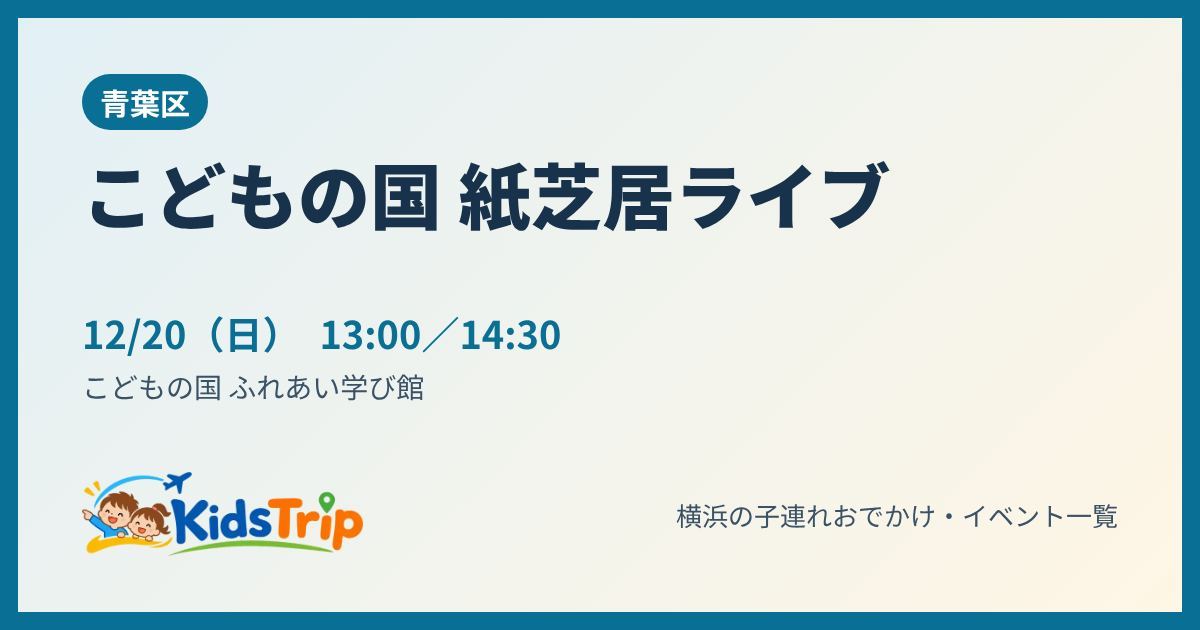
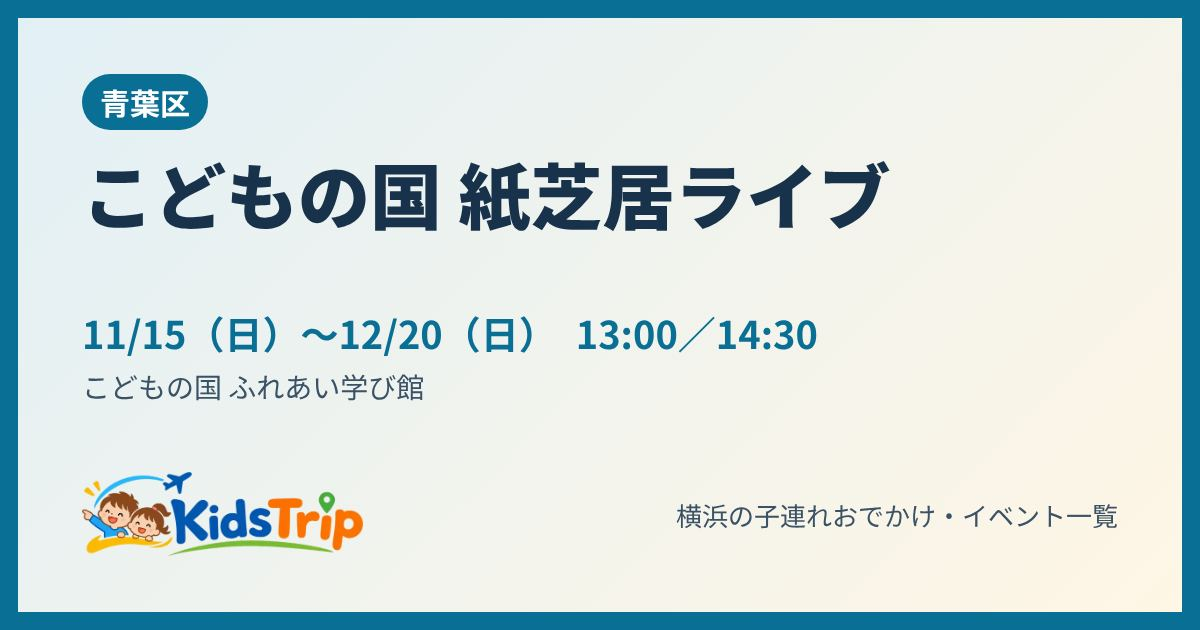
中止が分かった日を赤で表示（stop:{日付:理由}）。こどもの国の紙飛行機・紙芝居ライブの11/15を「雨で中止」に
Claude-Session: https://claude.ai/code/session_014AtJ2dyeZPNkHvtRLP9L41

Changed region(s): [[0.2467, 0.4825, 0.6783, 0.573], [0.0925, 0.5127, 0.1542, 0.573]]

diff --git a/event/h1le89/index.html b/event/h1le89/index.html
@@ -4,22 +4,22 @@
 <meta charset="utf-8">
 <meta name="viewport" content="width=device-width, initial-scale=1">
 <title>こどもの国 紙飛行機を飛ばそう（青葉区）｜横浜の子連れイベント｜KidsTrip</title>
-<meta name="description" content="12月20日(日)　こどもの国 ふれあい学び館。紙飛行機クラブの人に教わりながら、ゴムで飛ばす紙飛行機を作って飛ばす。">
+<meta name="description" content="11月15日(日)（雨で中止）・12月20日(日)　こどもの国 ふれあい学び館。紙飛行機クラブの人に教わりながら、ゴムで飛ばす紙飛行機を作って飛ばす。">
 <link rel="canonical" href="https://kidstrip.jp/event/h1le89/">
 <meta property="og:type" content="article">
 <meta property="og:site_name" content="KidsTrip">
 <meta property="og:title" content="こどもの国 紙飛行機を飛ばそう（青葉区）｜横浜の子連れイベント｜KidsTrip">
-<meta property="og:description" content="12月20日(日)　こどもの国 ふれあい学び館。紙飛行機クラブの人に教わりながら、ゴムで飛ばす紙飛行機を作って飛ばす。">
+<meta property="og:description" content="11月15日(日)（雨で中止）・12月20日(日)　こどもの国 ふれあい学び館。紙飛行機クラブの人に教わりながら、ゴムで飛ばす紙飛行機を作って飛ばす。">
 <meta property="og:url" content="https://kidstrip.jp/event/h1le89/">
 <meta property="og:image" content="https://kidstrip.jp/og/h1le89.jpg">
 <meta property="og:image:width" content="1200">
 <meta property="og:image:height" content="630">
-<meta property="og:image:alt" content="こどもの国 紙飛行機を飛ばそう（12/20（日）・青葉区）">
+<meta property="og:image:alt" content="こどもの国 紙飛行機を飛ばそう（11/15（日）〜12/20（日）・青葉区）">
 <meta name="twitter:card" content="summary_large_image">
 <link rel="icon" href="../../img/favicon.png">
 <link rel="apple-touch-icon" href="../../img/apple-touch-icon.png">
 <script type="application/ld+json">{"@context": "https://schema.org", "@type": "BreadcrumbList", "itemListElement": [{"@type": "ListItem", "position": 1, "name": "トップ", "item": "https://kidstrip.jp/"}, {"@type": "ListItem", "position": 2, "name": "イベント", "item": "https://kidstrip.jp/"}, {"@type": "ListItem", "position": 3, "name": "こどもの国 紙飛行機を飛ばそう"}]}</script>
-<script type="application/ld+json">{"@context": "https://schema.org", "@type": "Event", "name": "こどもの国 紙飛行機を飛ばそう", "startDate": "2026-12-20T10:00:00+09:00", "endDate": "2026-12-20", "eventStatus": "https://schema.org/EventScheduled", "eventAttendanceMode": "https://schema.org/OfflineEventAttendanceMode", "location": {"@type": "Place", "name": "こどもの国 ふれあい学び館", "address": {"@type": "PostalAddress", "addressLocality": "横浜市青葉区", "addressRegion": "神奈川県", "addressCountry": "JP"}}, "description": "紙飛行機クラブの人に教わりながら、ゴムで飛ばす紙飛行機を作って飛ばす。", "image": ["https://kidstrip.jp/og/h1le89.jpg"], "url": "https://kidstrip.jp/event/h1le89/", "isAccessibleForFree": false, "inLanguage": "ja"}</script>
+<script type="application/ld+json">{"@context": "https://schema.org", "@type": "Event", "name": "こどもの国 紙飛行機を飛ばそう", "startDate": "2026-11-15", "endDate": "2026-12-20", "eventStatus": "https://schema.org/EventScheduled", "eventAttendanceMode": "https://schema.org/OfflineEventAttendanceMode", "location": {"@type": "Place", "name": "こどもの国 ふれあい学び館", "address": {"@type": "PostalAddress", "addressLocality": "横浜市青葉区", "addressRegion": "神奈川県", "addressCountry": "JP"}}, "description": "紙飛行機クラブの人に教わりながら、ゴムで飛ばす紙飛行機を作って飛ばす。", "image": ["https://kidstrip.jp/og/h1le89.jpg"], "url": "https://kidstrip.jp/event/h1le89/", "isAccessibleForFree": false, "inLanguage": "ja"}</script>
 <style>
 :root{--paper:#f8fafc;--card:#fff;--ink:#18222e;--muted:#5b6875;--line:#dde3e9;--accent:#0a6f95;--accent-soft:#e2f0f6;--ok:#2e7d4f;--bad:#b3372b}
 *{box-sizing:border-box}body{margin:0;background:var(--paper);color:var(--ink);font-family:"Zen Kaku Gothic New","Hiragino Kaku Gothic ProN","Yu Gothic","Meiryo",sans-serif;line-height:1.7}
@@ -48,7 +48,7 @@ footer{margin:28px 0 8px;font-size:12px;color:var(--muted)}
 <h1>こどもの国 紙飛行機を飛ばそう</h1>
 <ul class="chips"><li>入園料のみ</li><li>対象年齢は公式ページに記載なし</li><li>屋外</li><li>雨天中止</li></ul>
 <table class="info">
-<tr><th>日にち</th><td>12月20日(日)</td></tr>
+<tr><th>日にち</th><td>11月15日(日)（雨で中止）・12月20日(日)</td></tr>
 <tr><th>時間</th><td>10:00〜14:00（受付は13:45まで）</td></tr>
 <tr><th>場所</th><td>青葉区・こどもの国 ふれあい学び館</td></tr>
 <tr><th>料金</th><td>入園料のみ（参加費は公式ページに記載なし）</td></tr>
@@ -57,12 +57,12 @@ footer{margin:28px 0 8px;font-size:12px;color:var(--muted)}
 <tr><th>雨の日</th><td>雨天中止（雨天中止）</td></tr>
 </table>
 <p class="sum">紙飛行機クラブの人に教わりながら、ゴムで飛ばす紙飛行機を作って飛ばす。</p>
-<p class="tip">💡 受付は13:45まで。11/15は雨天のため中止になった</p>
+<p class="tip">💡 受付は13:45まで</p>
 <p class="small">情報の時点：2026年11月15日　出典：こどもの国 公式</p>
 <div class="btns"><a class="btn main" data-act="official" href="https://www.kodomonokuni.org/event_topics/detail.html?id=52" target="_blank" rel="noopener">公式ページで確認</a>
 <a class="btn" href="/?e=h1le89">一覧で見る（行き方・近くのごはん）</a>
 <button type="button" class="btn" data-share="1">🔗 リンクを送る・コピー</button>
-<a class="btn line" href="https://line.me/R/share?text=%E3%80%90%E3%81%93%E3%81%A9%E3%82%82%E3%81%AE%E5%9B%BD%20%E7%B4%99%E9%A3%9B%E8%A1%8C%E6%A9%9F%E3%82%92%E9%A3%9B%E3%81%B0%E3%81%9D%E3%81%86%E3%80%91%0A12%E6%9C%8820%E6%97%A5%28%E6%97%A5%29%E3%80%8010%3A00%E3%80%9C14%3A00%EF%BC%88%E5%8F%97%E4%BB%98%E3%81%AF13%3A45%E3%81%BE%E3%81%A7%EF%BC%89%0A%E5%A0%B4%E6%89%80%EF%BC%9A%E9%9D%92%E8%91%89%E5%8C%BA%E3%83%BB%E3%81%93%E3%81%A9%E3%82%82%E3%81%AE%E5%9B%BD%20%E3%81%B5%E3%82%8C%E3%81%82%E3%81%84%E5%AD%A6%E3%81%B3%E9%A4%A8%0Ahttps%3A//kidstrip.jp/event/h1le89/" target="_blank" rel="noopener">LINEで送る</a></div>
+<a class="btn line" href="https://line.me/R/share?text=%E3%80%90%E3%81%93%E3%81%A9%E3%82%82%E3%81%AE%E5%9B%BD%20%E7%B4%99%E9%A3%9B%E8%A1%8C%E6%A9%9F%E3%82%92%E9%A3%9B%E3%81%B0%E3%81%9D%E3%81%86%E3%80%91%0A11%E6%9C%8815%E6%97%A5%28%E6%97%A5%29%EF%BC%88%E9%9B%A8%E3%81%A7%E4%B8%AD%E6%AD%A2%EF%BC%89%E3%83%BB12%E6%9C%8820%E6%97%A5%28%E6%97%A5%29%E3%80%8010%3A00%E3%80%9C14%3A00%EF%BC%88%E5%8F%97%E4%BB%98%E3%81%AF13%3A45%E3%81%BE%E3%81%A7%EF%BC%89%0A%E5%A0%B4%E6%89%80%EF%BC%9A%E9%9D%92%E8%91%89%E5%8C%BA%E3%83%BB%E3%81%93%E3%81%A9%E3%82%82%E3%81%AE%E5%9B%BD%20%E3%81%B5%E3%82%8C%E3%81%82%E3%81%84%E5%AD%A6%E3%81%B3%E9%A4%A8%0Ahttps%3A//kidstrip.jp/event/h1le89/" target="_blank" rel="noopener">LINEで送る</a></div>
 </article>
 <h2>近くのおむつ替え・授乳室・お湯（こどもの国）</h2><table class="bm"><thead><tr><th>場所</th><th>おむつ替え</th><th>授乳室</th><th>お湯</th></tr></thead><tbody><tr><th scope="row"><a href="/spot/h4ssx4/">こどもの国</a></th><td class="y">○</td><td class="y">○</td><td class="y">○</td></tr></tbody></table><p class="legend">○ あり　× なし　？ 調べた範囲で確認できず</p>
 <h2>近くのほかのイベント</h2><ul class="links"><li><a href="/event/1n3gczd/">こどもの国 あそび広場</a>（11月21日(土)）</li><li><a href="/event/1g2neg3/">こどもの国牧場 乳しぼり体験</a>（会期 毎週土日祝）</li><li><a href="/event/8myawv/">こどもの国牧場 バター作り教室</a>（会期 毎週日曜）</li><li><a href="/event/awe5vd/">こどもの国 冬のブラスフェス</a>（11月21日(土)）</li><li><a href="/event/12b01jt/">こどもの国 もみじのかざぐるま</a>（11月21日(土)・11月22日(日)・11月23日(月)）</li><li><a href="/event/1b02jh6/">こどもの国 自然スタンプビンゴ＜紅葉バージョン＞</a>（11月21日(土)・11月22日(日)・11月23日(月)）</li><li><a href="/event/oo305l/">こどもの国 工作教室「ヒツジをつくろう」</a>（11月22日(日)・11月23日(月)）</li><li><a href="/event/1qw0osb/">こどもの国 エコスポ！フェス2026</a>（11月15日(日)）</li></ul>

diff --git a/event/8ruore/index.html b/event/8ruore/index.html
@@ -4,22 +4,22 @@
 <meta charset="utf-8">
 <meta name="viewport" content="width=device-width, initial-scale=1">
 <title>こどもの国 紙芝居ライブ（青葉区）｜横浜の子連れイベント｜KidsTrip</title>
-<meta name="description" content="12月20日(日)　こどもの国 ふれあい学び館。紙芝居の会のメンバーによる紙芝居の実演。">
+<meta name="description" content="11月15日(日)（雨で中止）・12月20日(日)　こどもの国 ふれあい学び館。紙芝居の会のメンバーによる紙芝居の実演。">
 <link rel="canonical" href="https://kidstrip.jp/event/8ruore/">
 <meta property="og:type" content="article">
 <meta property="og:site_name" content="KidsTrip">
 <meta property="og:title" content="こどもの国 紙芝居ライブ（青葉区）｜横浜の子連れイベント｜KidsTrip">
-<meta property="og:description" content="12月20日(日)　こどもの国 ふれあい学び館。紙芝居の会のメンバーによる紙芝居の実演。">
+<meta property="og:description" content="11月15日(日)（雨で中止）・12月20日(日)　こどもの国 ふれあい学び館。紙芝居の会のメンバーによる紙芝居の実演。">
 <meta property="og:url" content="https://kidstrip.jp/event/8ruore/">
 <meta property="og:image" content="https://kidstrip.jp/og/8ruore.jpg">
 <meta property="og:image:width" content="1200">
 <meta property="og:image:height" content="630">
-<meta property="og:image:alt" content="こどもの国 紙芝居ライブ（12/20（日）・青葉区）">
+<meta property="og:image:alt" content="こどもの国 紙芝居ライブ（11/15（日）〜12/20（日）・青葉区）">
 <meta name="twitter:card" content="summary_large_image">
 <link rel="icon" href="../../img/favicon.png">
 <link rel="apple-touch-icon" href="../../img/apple-touch-icon.png">
 <script type="application/ld+json">{"@context": "https://schema.org", "@type": "BreadcrumbList", "itemListElement": [{"@type": "ListItem", "position": 1, "name": "トップ", "item": "https://kidstrip.jp/"}, {"@type": "ListItem", "position": 2, "name": "イベント", "item": "https://kidstrip.jp/"}, {"@type": "ListItem", "position": 3, "name": "こどもの国 紙芝居ライブ"}]}</script>
-<script type="application/ld+json">{"@context": "https://schema.org", "@type": "Event", "name": "こどもの国 紙芝居ライブ", "startDate": "2026-12-20T13:00:00+09:00", "endDate": "2026-12-20", "eventStatus": "https://schema.org/EventScheduled", "eventAttendanceMode": "https://schema.org/OfflineEventAttendanceMode", "location": {"@type": "Place", "name": "こどもの国 ふれあい学び館", "address": {"@type": "PostalAddress", "addressLocality": "横浜市青葉区", "addressRegion": "神奈川県", "addressCountry": "JP"}}, "description": "紙芝居の会のメンバーによる紙芝居の実演。", "image": ["https://kidstrip.jp/og/8ruore.jpg"], "url": "https://kidstrip.jp/event/8ruore/", "isAccessibleForFree": false, "inLanguage": "ja"}</script>
+<script type="application/ld+json">{"@context": "https://schema.org", "@type": "Event", "name": "こどもの国 紙芝居ライブ", "startDate": "2026-11-15", "endDate": "2026-12-20", "eventStatus": "https://schema.org/EventScheduled", "eventAttendanceMode": "https://schema.org/OfflineEventAttendanceMode", "location": {"@type": "Place", "name": "こどもの国 ふれあい学び館", "address": {"@type": "PostalAddress", "addressLocality": "横浜市青葉区", "addressRegion": "神奈川県", "addressCountry": "JP"}}, "description": "紙芝居の会のメンバーによる紙芝居の実演。", "image": ["https://kidstrip.jp/og/8ruore.jpg"], "url": "https://kidstrip.jp/event/8ruore/", "isAccessibleForFree": false, "inLanguage": "ja"}</script>
 <style>
 :root{--paper:#f8fafc;--card:#fff;--ink:#18222e;--muted:#5b6875;--line:#dde3e9;--accent:#0a6f95;--accent-soft:#e2f0f6;--ok:#2e7d4f;--bad:#b3372b}
 *{box-sizing:border-box}body{margin:0;background:var(--paper);color:var(--ink);font-family:"Zen Kaku Gothic New","Hiragino Kaku Gothic ProN","Yu Gothic","Meiryo",sans-serif;line-height:1.7}
@@ -48,7 +48,7 @@ footer{margin:28px 0 8px;font-size:12px;color:var(--muted)}
 <h1>こどもの国 紙芝居ライブ</h1>
 <ul class="chips"><li>入園料のみ</li><li>対象年齢は公式ページに記載なし</li><li>屋外</li><li>雨天中止</li></ul>
 <table class="info">
-<tr><th>日にち</th><td>12月20日(日)</td></tr>
+<tr><th>日にち</th><td>11月15日(日)（雨で中止）・12月20日(日)</td></tr>
 <tr><th>時間</th><td>13:00／14:30</td></tr>
 <tr><th>場所</th><td>青葉区・こどもの国 ふれあい学び館</td></tr>
 <tr><th>料金</th><td>入園料のみ（参加費は公式ページに記載なし）</td></tr>
@@ -57,12 +57,12 @@ footer{margin:28px 0 8px;font-size:12px;color:var(--muted)}
 <tr><th>雨の日</th><td>雨天中止（雨天中止）</td></tr>
 </table>
 <p class="sum">紙芝居の会のメンバーによる紙芝居の実演。</p>
-<p class="tip">💡 同じ日に紙飛行機の教室もある。11/15は雨天のため中止になった。1/17にもある</p>
+<p class="tip">💡 同じ日に紙飛行機の教室もある。1/17にもある</p>
 <p class="small">情報の時点：2026年11月15日　出典：こどもの国 公式</p>
 <div class="btns"><a class="btn main" data-act="official" href="https://www.kodomonokuni.org/event_topics/detail.html?id=186" target="_blank" rel="noopener">公式ページで確認</a>
 <a class="btn" href="/?e=8ruore">一覧で見る（行き方・近くのごはん）</a>
 <button type="button" class="btn" data-share="1">🔗 リンクを送る・コピー</button>
-<a class="btn line" href="https://line.me/R/share?text=%E3%80%90%E3%81%93%E3%81%A9%E3%82%82%E3%81%AE%E5%9B%BD%20%E7%B4%99%E8%8A%9D%E5%B1%85%E3%83%A9%E3%82%A4%E3%83%96%E3%80%91%0A12%E6%9C%8820%E6%97%A5%28%E6%97%A5%29%E3%80%8013%3A00%EF%BC%8F14%3A30%0A%E5%A0%B4%E6%89%80%EF%BC%9A%E9%9D%92%E8%91%89%E5%8C%BA%E3%83%BB%E3%81%93%E3%81%A9%E3%82%82%E3%81%AE%E5%9B%BD%20%E3%81%B5%E3%82%8C%E3%81%82%E3%81%84%E5%AD%A6%E3%81%B3%E9%A4%A8%0Ahttps%3A//kidstrip.jp/event/8ruore/" target="_blank" rel="noopener">LINEで送る</a></div>
+<a class="btn line" href="https://line.me/R/share?text=%E3%80%90%E3%81%93%E3%81%A9%E3%82%82%E3%81%AE%E5%9B%BD%20%E7%B4%99%E8%8A%9D%E5%B1%85%E3%83%A9%E3%82%A4%E3%83%96%E3%80%91%0A11%E6%9C%8815%E6%97%A5%28%E6%97%A5%29%EF%BC%88%E9%9B%A8%E3%81%A7%E4%B8%AD%E6%AD%A2%EF%BC%89%E3%83%BB12%E6%9C%8820%E6%97%A5%28%E6%97%A5%29%E3%80%8013%3A00%EF%BC%8F14%3A30%0A%E5%A0%B4%E6%89%80%EF%BC%9A%E9%9D%92%E8%91%89%E5%8C%BA%E3%83%BB%E3%81%93%E3%81%A9%E3%82%82%E3%81%AE%E5%9B%BD%20%E3%81%B5%E3%82%8C%E3%81%82%E3%81%84%E5%AD%A6%E3%81%B3%E9%A4%A8%0Ahttps%3A//kidstrip.jp/event/8ruore/" target="_blank" rel="noopener">LINEで送る</a></div>
 </article>
 
 

diff --git a/index.html b/index.html
@@ -173,6 +173,9 @@ section.group { display: grid; gap: 10px; }
 .rain.ok { background: var(--ok-soft); color: var(--ok); }
 .rain.check { background: var(--warn-soft); color: var(--warn); }
 .rain.cancel { background: var(--bad-soft); color: var(--bad); font-weight: 700; }
+.stopnote { margin: 6px 0; padding: 5px 10px; border-radius: 8px; background: var(--bad-soft); color: var(--bad); font-weight: 800; border: 1.5px solid var(--bad); }
+.day.stopped { text-decoration: line-through; opacity: .75; }
+.card.allstop { opacity: .8; }
 .rain.unknown { background: var(--paper); color: var(--muted); }
 .sum { margin: 0; font-size: 14px; }
 .tip { margin: 0; font-size: 13px; color: var(--muted); }
@@ -1943,16 +1946,16 @@ EVENTS.push(
     resv:true, resvText:"要申込・抽選（12/7 9:30ごろ〜12/13 17:00にWebで。各回10組）", age:[3,99], ageText:"家族など2〜5人で1組。小学3年生以下は保護者と一緒に", kind:"limited", start:630,
     sum:"竹を切って縄を巻き、ミニサイズの門松を1対作る年末の教室。",
     tip:"すべらない軍手と持ち帰り用の袋を持って行く", url:"https://www.kodomonokuni.org/event_topics/detail.html?id=91", src:"こどもの国 公式", asof:"2026年11月12日" },
-  { t:"こどもの国 紙芝居ライブ", days:["12/20"], time:"13:00／14:30", ward:"青葉区", venue:"こどもの国 ふれあい学び館",
+  { t:"こどもの国 紙芝居ライブ", days:["11/15","12/20"], stop:{"11/15":"雨で中止"}, time:"13:00／14:30", ward:"青葉区", venue:"こどもの国 ふれあい学び館",
     price:"admission", priceText:"入園料のみ（参加費は公式ページに記載なし）", place:"屋外", rain:"cancel", rainText:"雨天中止",
     resv:null, resvText:"公式ページに記載なし", age:[2,10], ageText:"対象年齢は公式ページに記載なし", kind:"limited", start:780,
     sum:"紙芝居の会のメンバーによる紙芝居の実演。",
-    tip:"同じ日に紙飛行機の教室もある。11/15は雨天のため中止になった。1/17にもある", url:"https://www.kodomonokuni.org/event_topics/detail.html?id=186", src:"こどもの国 公式", asof:"2026年11月15日" },
-  { t:"こどもの国 紙飛行機を飛ばそう", days:["12/20"], time:"10:00〜14:00（受付は13:45まで）", ward:"青葉区", venue:"こどもの国 ふれあい学び館",
+    tip:"同じ日に紙飛行機の教室もある。1/17にもある", url:"https://www.kodomonokuni.org/event_topics/detail.html?id=186", src:"こどもの国 公式", asof:"2026年11月15日" },
+  { t:"こどもの国 紙飛行機を飛ばそう", days:["11/15","12/20"], stop:{"11/15":"雨で中止"}, time:"10:00〜14:00（受付は13:45まで）", ward:"青葉区", venue:"こどもの国 ふれあい学び館",
     price:"admission", priceText:"入園料のみ（参加費は公式ページに記載なし）", place:"屋外", rain:"cancel", rainText:"雨天中止",
     resv:false, resvText:"当日受付", age:[4,12], ageText:"対象年齢は公式ページに記載なし", kind:"limited", start:600,
     sum:"紙飛行機クラブの人に教わりながら、ゴムで飛ばす紙飛行機を作って飛ばす。",
-    tip:"受付は13:45まで。11/15は雨天のため中止になった", url:"https://www.kodomonokuni.org/event_topics/detail.html?id=52", src:"こどもの国 公式", asof:"2026年11月15日" },
+    tip:"受付は13:45まで", url:"https://www.kodomonokuni.org/event_topics/detail.html?id=52", src:"こどもの国 公式", asof:"2026年11月15日" },
   { t:"こどもの国 フィールドゲーム＜冬バージョン＞", days:[], time:"用紙の販売は開園〜14:00（ゴールは16:00まで）", period:"12/5〜2027/2/28（水曜・12/31・1/1は休園）", ward:"青葉区", venue:"こどもの国（正面入口案内所で販売）",
     price:"paid", priceText:"1枚100円（鉛筆つき・完走で景品）＋入園料", place:"屋外", rain:"check", rainText:"雨の日の扱いは公式ページに記載なし",
     resv:false, resvText:"個人は予約不要", age:[4,12], ageText:"対象年齢は公式ページに記載なし", kind:"ongoing", start:570, closed:["1/1"],
@@ -2622,7 +2625,7 @@ Object.assign(FOOD_OF, {
 });
 function dayChips(e){
   if (e.kind === "ongoing") return `<span class="period">${e.wk || /確認|要確認|以外|いつでも/.test(e.period) ? "" : "会期 "}${esc(e.period)}</span>${e.wk ? `<span class="period wk">平日：${esc(e.wk)}</span>` : ""}`;
-  return e.days.map(k => { const d = DATES[DATE_IDX[k]]; if (!d) return `<span class="day wkday">${dlabel(k)}</span>`; return `<span class="day ${d.c}">${d.s}(${d.w})</span>`; }).join("");
+  return e.days.map(k => { const st = e.stop && e.stop[k] ? " stopped" : ""; const d = DATES[DATE_IDX[k]]; if (!d) return `<span class="day wkday${st}">${dlabel(k)}</span>`; return `<span class="day ${d.c}${st}">${d.s}(${d.w})</span>`; }).join("");
 }
 
 const PAGE_URL = "https://kidstrip.jp/";
@@ -3225,9 +3228,13 @@ function card(e){
     : e.price === "admission" ? `<li class="chip">入園料のみ</li>`
     : e.price === "paid" ? `<li class="chip">有料</li>` : `<li class="chip">料金要確認</li>`;
   const resvChip = e.resv === true ? `<li class="chip resv">要予約</li>` : e.resv === false ? `<li class="chip">予約不要</li>` : `<li class="chip">予約は要確認</li>`;
-  return `<article class="card r-${e.rain}" data-eid="${esc(e.id)}" data-ev="${esc(e.t)}">
+  // 中止が分かった日（e.stop = { "11/15":"雨で中止" }）は赤で表示する
+  const stops = Object.entries(e.stop || {});
+  const stopNote = stops.map(([k, why]) => `<p class="stopnote">⛔ ${dlabel(k)}は${esc(why)}</p>`).join("");
+  const allStop = stops.length && e.days.length && e.days.every(k => e.stop[k]);
+  return `<article class="card r-${e.rain}${allStop ? " allstop" : ""}" data-eid="${esc(e.id)}" data-ev="${esc(e.t)}">
     <div class="when">${days}<span>${esc(e.time)}</span>${favBtn(e)}</div>
-    <h3>${esc(e.t)}</h3>
+    ${stopNote}<h3>${esc(e.t)}</h3>
     <p class="where">${esc(e.ward)}・${esc(e.venue)}</p>
     <ul class="chips">${priceChip}<li class="chip">${esc(e.ageText)}</li><li class="chip">${esc(e.place)}</li>${resvChip}</ul>
     <p class="rain ${e.rain}">${RAIN_ICON[e.rain]}<span><b>${RAIN_LABEL[e.rain]}</b>　${esc(e.rainText)}</span></p>

diff --git a/event/1b02jh6/index.html b/event/1b02jh6/index.html
@@ -65,7 +65,7 @@ footer{margin:28px 0 8px;font-size:12px;color:var(--muted)}
 <a class="btn line" href="https://line.me/R/share?text=%E3%80%90%E3%81%93%E3%81%A9%E3%82%82%E3%81%AE%E5%9B%BD%20%E8%87%AA%E7%84%B6%E3%82%B9%E3%82%BF%E3%83%B3%E3%83%97%E3%83%93%E3%83%B3%E3%82%B4%EF%BC%9C%E7%B4%85%E8%91%89%E3%83%90%E3%83%BC%E3%82%B8%E3%83%A7%E3%83%B3%EF%BC%9E%E3%80%91%0A11%E6%9C%8821%E6%97%A5%28%E5%9C%9F%29%E3%83%BB11%E6%9C%8822%E6%97%A5%28%E6%97%A5%29%E3%83%BB11%E6%9C%8823%E6%97%A5%28%E6%9C%88%29%E3%80%80%E9%96%8B%E5%9C%92%E3%80%9C14%3A00%E5%8F%97%E4%BB%98%EF%BC%88%E3%82%B4%E3%83%BC%E3%83%AB%E3%81%AF16%3A00%E3%81%BE%E3%81%A7%EF%BC%89%0A%E5%A0%B4%E6%89%80%EF%BC%9A%E9%9D%92%E8%91%89%E5%8C%BA%E3%83%BB%E3%81%93%E3%81%A9%E3%82%82%E3%81%AE%E5%9B%BD%20%E6%AD%A3%E9%9D%A2%E5%85%A5%E5%8F%A3%E5%BA%83%E5%A0%B4%EF%BC%88%E5%8F%97%E4%BB%98%EF%BC%89%0Ahttps%3A//kidstrip.jp/event/1b02jh6/" target="_blank" rel="noopener">LINEで送る</a></div>
 </article>
 <h2>近くのおむつ替え・授乳室・お湯（こどもの国）</h2><table class="bm"><thead><tr><th>場所</th><th>おむつ替え</th><th>授乳室</th><th>お湯</th></tr></thead><tbody><tr><th scope="row"><a href="/spot/h4ssx4/">こどもの国</a></th><td class="y">○</td><td class="y">○</td><td class="y">○</td></tr></tbody></table><p class="legend">○ あり　× なし　？ 調べた範囲で確認できず</p>
-<h2>近くのほかのイベント</h2><ul class="links"><li><a href="/event/1n3gczd/">こどもの国 あそび広場</a>（11月21日(土)）</li><li><a href="/event/1g2neg3/">こどもの国牧場 乳しぼり体験</a>（会期 毎週土日祝）</li><li><a href="/event/8myawv/">こどもの国牧場 バター作り教室</a>（会期 毎週日曜）</li><li><a href="/event/awe5vd/">こどもの国 冬のブラスフェス</a>（11月21日(土)）</li><li><a href="/event/12b01jt/">こどもの国 もみじのかざぐるま</a>（11月21日(土)・11月22日(日)・11月23日(月)）</li><li><a href="/event/oo305l/">こどもの国 工作教室「ヒツジをつくろう」</a>（11月22日(日)・11月23日(月)）</li><li><a href="/event/1qw0osb/">こどもの国 エコスポ！フェス2026</a>（11月15日(日)）</li><li><a href="/event/h1le89/">こどもの国 紙飛行機を飛ばそう</a>（12月20日(日)）</li></ul>
+<h2>近くのほかのイベント</h2><ul class="links"><li><a href="/event/1n3gczd/">こどもの国 あそび広場</a>（11月21日(土)）</li><li><a href="/event/1g2neg3/">こどもの国牧場 乳しぼり体験</a>（会期 毎週土日祝）</li><li><a href="/event/8myawv/">こどもの国牧場 バター作り教室</a>（会期 毎週日曜）</li><li><a href="/event/awe5vd/">こどもの国 冬のブラスフェス</a>（11月21日(土)）</li><li><a href="/event/12b01jt/">こどもの国 もみじのかざぐるま</a>（11月21日(土)・11月22日(日)・11月23日(月)）</li><li><a href="/event/oo305l/">こどもの国 工作教室「ヒツジをつくろう」</a>（11月22日(日)・11月23日(月)）</li><li><a href="/event/1qw0osb/">こどもの国 エコスポ！フェス2026</a>（11月15日(日)）</li><li><a href="/event/h1le89/">こどもの国 紙飛行機を飛ばそう</a>（11月15日(日)（雨で中止）・12月20日(日)）</li></ul>
 
 <footer><p>KidsTrip（キッズトリップ）横浜の子連れおでかけ・イベント一覧。施設・主催者の公式情報などをもとに要約しています。内容は変わることがあるので、出かける前に必ず公式ページで確認してください。</p>
 <p>サイトをよくするため、押されたボタン・リンクの回数を、名前などの個人情報なしで記録しています。</p></footer>

diff --git a/event/oo305l/index.html b/event/oo305l/index.html
@@ -65,7 +65,7 @@ footer{margin:28px 0 8px;font-size:12px;color:var(--muted)}
 <a class="btn line" href="https://line.me/R/share?text=%E3%80%90%E3%81%93%E3%81%A9%E3%82%82%E3%81%AE%E5%9B%BD%20%E5%B7%A5%E4%BD%9C%E6%95%99%E5%AE%A4%E3%80%8C%E3%83%92%E3%83%84%E3%82%B8%E3%82%92%E3%81%A4%E3%81%8F%E3%82%8D%E3%81%86%E3%80%8D%E3%80%91%0A11%E6%9C%8822%E6%97%A5%28%E6%97%A5%29%E3%83%BB11%E6%9C%8823%E6%97%A5%28%E6%9C%88%29%E3%80%8010%3A30%EF%BC%8F13%3A00%EF%BC%8F14%3A30%EF%BC%88%E5%90%84%E5%9B%9E6%E7%B5%84%EF%BC%89%0A%E5%A0%B4%E6%89%80%EF%BC%9A%E9%9D%92%E8%91%89%E5%8C%BA%E3%83%BB%E3%81%93%E3%81%A9%E3%82%82%E3%81%AE%E5%9B%BD%20%E5%85%90%E7%AB%A5%E3%82%BB%E3%83%B3%E3%82%BF%E3%83%BC%0Ahttps%3A//kidstrip.jp/event/oo305l/" target="_blank" rel="noopener">LINEで送る</a></div>
 </article>
 <h2>近くのおむつ替え・授乳室・お湯（こどもの国）</h2><table class="bm"><thead><tr><th>場所</th><th>おむつ替え</th><th>授乳室</th><th>お湯</th></tr></thead><tbody><tr><th scope="row"><a href="/spot/h4ssx4/">こどもの国</a></th><td class="y">○</td><td class="y">○</td><td class="y">○</td></tr></tbody></table><p class="legend">○ あり　× なし　？ 調べた範囲で確認できず</p>
-<h2>近くのほかのイベント</h2><ul class="links"><li><a href="/event/1n3gczd/">こどもの国 あそび広場</a>（11月21日(土)）</li><li><a href="/event/1g2neg3/">こどもの国牧場 乳しぼり体験</a>（会期 毎週土日祝）</li><li><a href="/event/8myawv/">こどもの国牧場 バター作り教室</a>（会期 毎週日曜）</li><li><a href="/event/awe5vd/">こどもの国 冬のブラスフェス</a>（11月21日(土)）</li><li><a href="/event/12b01jt/">こどもの国 もみじのかざぐるま</a>（11月21日(土)・11月22日(日)・11月23日(月)）</li><li><a href="/event/1b02jh6/">こどもの国 自然スタンプビンゴ＜紅葉バージョン＞</a>（11月21日(土)・11月22日(日)・11月23日(月)）</li><li><a href="/event/1qw0osb/">こどもの国 エコスポ！フェス2026</a>（11月15日(日)）</li><li><a href="/event/h1le89/">こどもの国 紙飛行機を飛ばそう</a>（12月20日(日)）</li></ul>
+<h2>近くのほかのイベント</h2><ul class="links"><li><a href="/event/1n3gczd/">こどもの国 あそび広場</a>（11月21日(土)）</li><li><a href="/event/1g2neg3/">こどもの国牧場 乳しぼり体験</a>（会期 毎週土日祝）</li><li><a href="/event/8myawv/">こどもの国牧場 バター作り教室</a>（会期 毎週日曜）</li><li><a href="/event/awe5vd/">こどもの国 冬のブラスフェス</a>（11月21日(土)）</li><li><a href="/event/12b01jt/">こどもの国 もみじのかざぐるま</a>（11月21日(土)・11月22日(日)・11月23日(月)）</li><li><a href="/event/1b02jh6/">こどもの国 自然スタンプビンゴ＜紅葉バージョン＞</a>（11月21日(土)・11月22日(日)・11月23日(月)）</li><li><a href="/event/1qw0osb/">こどもの国 エコスポ！フェス2026</a>（11月15日(日)）</li><li><a href="/event/h1le89/">こどもの国 紙飛行機を飛ばそう</a>（11月15日(日)（雨で中止）・12月20日(日)）</li></ul>
 
 <footer><p>KidsTrip（キッズトリップ）横浜の子連れおでかけ・イベント一覧。施設・主催者の公式情報などをもとに要約しています。内容は変わることがあるので、出かける前に必ず公式ページで確認してください。</p>
 <p>サイトをよくするため、押されたボタン・リンクの回数を、名前などの個人情報なしで記録しています。</p></footer>

diff --git a/event/1n3gczd/index.html b/event/1n3gczd/index.html
@@ -65,7 +65,7 @@ footer{margin:28px 0 8px;font-size:12px;color:var(--muted)}
 <a class="btn line" href="https://line.me/R/share?text=%E3%80%90%E3%81%93%E3%81%A9%E3%82%82%E3%81%AE%E5%9B%BD%20%E3%81%82%E3%81%9D%E3%81%B3%E5%BA%83%E5%A0%B4%E3%80%91%0A11%E6%9C%8821%E6%97%A5%28%E5%9C%9F%29%E3%80%8011%3A00%E3%80%9C15%3A00%EF%BC%8814%3A45%E5%8F%97%E4%BB%98%E7%B5%82%E4%BA%86%EF%BC%89%0A%E5%A0%B4%E6%89%80%EF%BC%9A%E9%9D%92%E8%91%89%E5%8C%BA%E3%83%BB%E3%81%93%E3%81%A9%E3%82%82%E3%81%AE%E5%9B%BD%20%E3%81%B5%E3%82%8C%E3%81%82%E3%81%84%E5%AD%A6%E3%81%B3%E9%A4%A8%0Ahttps%3A//kidstrip.jp/event/1n3gczd/" target="_blank" rel="noopener">LINEで送る</a></div>
 </article>
 <h2>近くのおむつ替え・授乳室・お湯（こどもの国）</h2><table class="bm"><thead><tr><th>場所</th><th>おむつ替え</th><th>授乳室</th><th>お湯</th></tr></thead><tbody><tr><th scope="row"><a href="/spot/h4ssx4/">こどもの国</a></th><td class="y">○</td><td class="y">○</td><td class="y">○</td></tr></tbody></table><p class="legend">○ あり　× なし　？ 調べた範囲で確認できず</p>
-<h2>近くのほかのイベント</h2><ul class="links"><li><a href="/event/1g2neg3/">こどもの国牧場 乳しぼり体験</a>（会期 毎週土日祝）</li><li><a href="/event/8myawv/">こどもの国牧場 バター作り教室</a>（会期 毎週日曜）</li><li><a href="/event/awe5vd/">こどもの国 冬のブラスフェス</a>（11月21日(土)）</li><li><a href="/event/12b01jt/">こどもの国 もみじのかざぐるま</a>（11月21日(土)・11月22日(日)・11月23日(月)）</li><li><a href="/event/1b02jh6/">こどもの国 自然スタンプビンゴ＜紅葉バージョン＞</a>（11月21日(土)・11月22日(日)・11月23日(月)）</li><li><a href="/event/oo305l/">こどもの国 工作教室「ヒツジをつくろう」</a>（11月22日(日)・11月23日(月)）</li><li><a href="/event/1qw0osb/">こどもの国 エコスポ！フェス2026</a>（11月15日(日)）</li><li><a href="/event/h1le89/">こどもの国 紙飛行機を飛ばそう</a>（12月20日(日)）</li></ul>
+<h2>近くのほかのイベント</h2><ul class="links"><li><a href="/event/1g2neg3/">こどもの国牧場 乳しぼり体験</a>（会期 毎週土日祝）</li><li><a href="/event/8myawv/">こどもの国牧場 バター作り教室</a>（会期 毎週日曜）</li><li><a href="/event/awe5vd/">こどもの国 冬のブラスフェス</a>（11月21日(土)）</li><li><a href="/event/12b01jt/">こどもの国 もみじのかざぐるま</a>（11月21日(土)・11月22日(日)・11月23日(月)）</li><li><a href="/event/1b02jh6/">こどもの国 自然スタンプビンゴ＜紅葉バージョン＞</a>（11月21日(土)・11月22日(日)・11月23日(月)）</li><li><a href="/event/oo305l/">こどもの国 工作教室「ヒツジをつくろう」</a>（11月22日(日)・11月23日(月)）</li><li><a href="/event/1qw0osb/">こどもの国 エコスポ！フェス2026</a>（11月15日(日)）</li><li><a href="/event/h1le89/">こどもの国 紙飛行機を飛ばそう</a>（11月15日(日)（雨で中止）・12月20日(日)）</li></ul>
 
 <footer><p>KidsTrip（キッズトリップ）横浜の子連れおでかけ・イベント一覧。施設・主催者の公式情報などをもとに要約しています。内容は変わることがあるので、出かける前に必ず公式ページで確認してください。</p>
 <p>サイトをよくするため、押されたボタン・リンクの回数を、名前などの個人情報なしで記録しています。</p></footer>

diff --git a/event/awe5vd/index.html b/event/awe5vd/index.html
@@ -65,7 +65,7 @@ footer{margin:28px 0 8px;font-size:12px;color:var(--muted)}
 <a class="btn line" href="https://line.me/R/share?text=%E3%80%90%E3%81%93%E3%81%A9%E3%82%82%E3%81%AE%E5%9B%BD%20%E5%86%AC%E3%81%AE%E3%83%96%E3%83%A9%E3%82%B9%E3%83%95%E3%82%A7%E3%82%B9%E3%80%91%0A11%E6%9C%8821%E6%97%A5%28%E5%9C%9F%29%E3%80%8010%3A00%E3%80%9C15%3A30%0A%E5%A0%B4%E6%89%80%EF%BC%9A%E9%9D%92%E8%91%89%E5%8C%BA%E3%83%BB%E3%81%93%E3%81%A9%E3%82%82%E3%81%AE%E5%9B%BD%20%E5%B9%B3%E6%88%90%E8%A8%98%E5%BF%B5%E9%A4%A8%EF%BC%88%E5%B1%8B%E6%A0%B9%E4%BB%98%E3%81%8D%EF%BC%89%0Ahttps%3A//kidstrip.jp/event/awe5vd/" target="_blank" rel="noopener">LINEで送る</a></div>
 </article>
 <h2>近くのおむつ替え・授乳室・お湯（こどもの国）</h2><table class="bm"><thead><tr><th>場所</th><th>おむつ替え</th><th>授乳室</th><th>お湯</th></tr></thead><tbody><tr><th scope="row"><a href="/spot/h4ssx4/">こどもの国</a></th><td class="y">○</td><td class="y">○</td><td class="y">○</td></tr></tbody></table><p class="legend">○ あり　× なし　？ 調べた範囲で確認できず</p>
-<h2>近くのほかのイベント</h2><ul class="links"><li><a href="/event/1n3gczd/">こどもの国 あそび広場</a>（11月21日(土)）</li><li><a href="/event/1g2neg3/">こどもの国牧場 乳しぼり体験</a>（会期 毎週土日祝）</li><li><a href="/event/8myawv/">こどもの国牧場 バター作り教室</a>（会期 毎週日曜）</li><li><a href="/event/12b01jt/">こどもの国 もみじのかざぐるま</a>（11月21日(土)・11月22日(日)・11月23日(月)）</li><li><a href="/event/1b02jh6/">こどもの国 自然スタンプビンゴ＜紅葉バージョン＞</a>（11月21日(土)・11月22日(日)・11月23日(月)）</li><li><a href="/event/oo305l/">こどもの国 工作教室「ヒツジをつくろう」</a>（11月22日(日)・11月23日(月)）</li><li><a href="/event/1qw0osb/">こどもの国 エコスポ！フェス2026</a>（11月15日(日)）</li><li><a href="/event/h1le89/">こどもの国 紙飛行機を飛ばそう</a>（12月20日(日)）</li></ul>
+<h2>近くのほかのイベント</h2><ul class="links"><li><a href="/event/1n3gczd/">こどもの国 あそび広場</a>（11月21日(土)）</li><li><a href="/event/1g2neg3/">こどもの国牧場 乳しぼり体験</a>（会期 毎週土日祝）</li><li><a href="/event/8myawv/">こどもの国牧場 バター作り教室</a>（会期 毎週日曜）</li><li><a href="/event/12b01jt/">こどもの国 もみじのかざぐるま</a>（11月21日(土)・11月22日(日)・11月23日(月)）</li><li><a href="/event/1b02jh6/">こどもの国 自然スタンプビンゴ＜紅葉バージョン＞</a>（11月21日(土)・11月22日(日)・11月23日(月)）</li><li><a href="/event/oo305l/">こどもの国 工作教室「ヒツジをつくろう」</a>（11月22日(日)・11月23日(月)）</li><li><a href="/event/1qw0osb/">こどもの国 エコスポ！フェス2026</a>（11月15日(日)）</li><li><a href="/event/h1le89/">こどもの国 紙飛行機を飛ばそう</a>（11月15日(日)（雨で中止）・12月20日(日)）</li></ul>
 
 <footer><p>KidsTrip（キッズトリップ）横浜の子連れおでかけ・イベント一覧。施設・主催者の公式情報などをもとに要約しています。内容は変わることがあるので、出かける前に必ず公式ページで確認してください。</p>
 <p>サイトをよくするため、押されたボタン・リンクの回数を、名前などの個人情報なしで記録しています。</p></footer>

diff --git a/event/12b01jt/index.html b/event/12b01jt/index.html
@@ -65,7 +65,7 @@ footer{margin:28px 0 8px;font-size:12px;color:var(--muted)}
 <a class="btn line" href="https://line.me/R/share?text=%E3%80%90%E3%81%93%E3%81%A9%E3%82%82%E3%81%AE%E5%9B%BD%20%E3%82%82%E3%81%BF%E3%81%98%E3%81%AE%E3%81%8B%E3%81%96%E3%81%90%E3%82%8B%E3%81%BE%E3%80%91%0A11%E6%9C%8821%E6%97%A5%28%E5%9C%9F%29%E3%83%BB11%E6%9C%8822%E6%97%A5%28%E6%97%A5%29%E3%83%BB11%E6%9C%8823%E6%97%A5%28%E6%9C%88%29%E3%80%8010%3A00%E3%80%9C15%3A00%0A%E5%A0%B4%E6%89%80%EF%BC%9A%E9%9D%92%E8%91%89%E5%8C%BA%E3%83%BB%E3%81%93%E3%81%A9%E3%82%82%E3%81%AE%E5%9B%BD%20%E3%83%9C%E3%83%BC%E3%83%88%E3%81%AE%E3%82%8A%E3%81%B0%E5%89%8D%0Ahttps%3A//kidstrip.jp/event/12b01jt/" target="_blank" rel="noopener">LINEで送る</a></div>
 </article>
 <h2>近くのおむつ替え・授乳室・お湯（こどもの国）</h2><table class="bm"><thead><tr><th>場所</th><th>おむつ替え</th><th>授乳室</th><th>お湯</th></tr></thead><tbody><tr><th scope="row"><a href="/spot/h4ssx4/">こどもの国</a></th><td class="y">○</td><td class="y">○</td><td class="y">○</td></tr></tbody></table><p class="legend">○ あり　× なし　？ 調べた範囲で確認できず</p>
-<h2>近くのほかのイベント</h2><ul class="links"><li><a href="/event/1n3gczd/">こどもの国 あそび広場</a>（11月21日(土)）</li><li><a href="/event/1g2neg3/">こどもの国牧場 乳しぼり体験</a>（会期 毎週土日祝）</li><li><a href="/event/8myawv/">こどもの国牧場 バター作り教室</a>（会期 毎週日曜）</li><li><a href="/event/awe5vd/">こどもの国 冬のブラスフェス</a>（11月21日(土)）</li><li><a href="/event/1b02jh6/">こどもの国 自然スタンプビンゴ＜紅葉バージョン＞</a>（11月21日(土)・11月22日(日)・11月23日(月)）</li><li><a href="/event/oo305l/">こどもの国 工作教室「ヒツジをつくろう」</a>（11月22日(日)・11月23日(月)）</li><li><a href="/event/1qw0osb/">こどもの国 エコスポ！フェス2026</a>（11月15日(日)）</li><li><a href="/event/h1le89/">こどもの国 紙飛行機を飛ばそう</a>（12月20日(日)）</li></ul>
+<h2>近くのほかのイベント</h2><ul class="links"><li><a href="/event/1n3gczd/">こどもの国 あそび広場</a>（11月21日(土)）</li><li><a href="/event/1g2neg3/">こどもの国牧場 乳しぼり体験</a>（会期 毎週土日祝）</li><li><a href="/event/8myawv/">こどもの国牧場 バター作り教室</a>（会期 毎週日曜）</li><li><a href="/event/awe5vd/">こどもの国 冬のブラスフェス</a>（11月21日(土)）</li><li><a href="/event/1b02jh6/">こどもの国 自然スタンプビンゴ＜紅葉バージョン＞</a>（11月21日(土)・11月22日(日)・11月23日(月)）</li><li><a href="/event/oo305l/">こどもの国 工作教室「ヒツジをつくろう」</a>（11月22日(日)・11月23日(月)）</li><li><a href="/event/1qw0osb/">こどもの国 エコスポ！フェス2026</a>（11月15日(日)）</li><li><a href="/event/h1le89/">こどもの国 紙飛行機を飛ばそう</a>（11月15日(日)（雨で中止）・12月20日(日)）</li></ul>
 
 <footer><p>KidsTrip（キッズトリップ）横浜の子連れおでかけ・イベント一覧。施設・主催者の公式情報などをもとに要約しています。内容は変わることがあるので、出かける前に必ず公式ページで確認してください。</p>
 <p>サイトをよくするため、押されたボタン・リンクの回数を、名前などの個人情報なしで記録しています。</p></footer>

diff --git a/event/8myawv/index.html b/event/8myawv/index.html
@@ -65,7 +65,7 @@ footer{margin:28px 0 8px;font-size:12px;color:var(--muted)}
 <a class="btn line" href="https://line.me/R/share?text=%E3%80%90%E3%81%93%E3%81%A9%E3%82%82%E3%81%AE%E5%9B%BD%E7%89%A7%E5%A0%B4%20%E3%83%90%E3%82%BF%E3%83%BC%E4%BD%9C%E3%82%8A%E6%95%99%E5%AE%A4%E3%80%91%0A%E4%BC%9A%E6%9C%9F%20%E6%AF%8E%E9%80%B1%E6%97%A5%E6%9B%9C%E3%80%8010%3A30%0A%E5%A0%B4%E6%89%80%EF%BC%9A%E9%9D%92%E8%91%89%E5%8C%BA%E3%83%BB%E3%81%93%E3%81%A9%E3%82%82%E3%81%AE%E5%9B%BD%20%E3%83%9F%E3%83%AB%E3%82%AF%E3%83%97%E3%83%A9%E3%83%B3%E3%83%881%E9%9A%8E%0Ahttps%3A//kidstrip.jp/event/8myawv/" target="_blank" rel="noopener">LINEで送る</a></div>
 </article>
 <h2>近くのおむつ替え・授乳室・お湯（こどもの国）</h2><table class="bm"><thead><tr><th>場所</th><th>おむつ替え</th><th>授乳室</th><th>お湯</th></tr></thead><tbody><tr><th scope="row"><a href="/spot/h4ssx4/">こどもの国</a></th><td class="y">○</td><td class="y">○</td><td class="y">○</td></tr></tbody></table><p class="legend">○ あり　× なし　？ 調べた範囲で確認できず</p>
-<h2>近くのほかのイベント</h2><ul class="links"><li><a href="/event/1n3gczd/">こどもの国 あそび広場</a>（11月21日(土)）</li><li><a href="/event/1g2neg3/">こどもの国牧場 乳しぼり体験</a>（会期 毎週土日祝）</li><li><a href="/event/awe5vd/">こどもの国 冬のブラスフェス</a>（11月21日(土)）</li><li><a href="/event/12b01jt/">こどもの国 もみじのかざぐるま</a>（11月21日(土)・11月22日(日)・11月23日(月)）</li><li><a href="/event/1b02jh6/">こどもの国 自然スタンプビンゴ＜紅葉バージョン＞</a>（11月21日(土)・11月22日(日)・11月23日(月)）</li><li><a href="/event/oo305l/">こどもの国 工作教室「ヒツジをつくろう」</a>（11月22日(日)・11月23日(月)）</li><li><a href="/event/1qw0osb/">こどもの国 エコスポ！フェス2026</a>（11月15日(日)）</li><li><a href="/event/h1le89/">こどもの国 紙飛行機を飛ばそう</a>（12月20日(日)）</li></ul>
+<h2>近くのほかのイベント</h2><ul class="links"><li><a href="/event/1n3gczd/">こどもの国 あそび広場</a>（11月21日(土)）</li><li><a href="/event/1g2neg3/">こどもの国牧場 乳しぼり体験</a>（会期 毎週土日祝）</li><li><a href="/event/awe5vd/">こどもの国 冬のブラスフェス</a>（11月21日(土)）</li><li><a href="/event/12b01jt/">こどもの国 もみじのかざぐるま</a>（11月21日(土)・11月22日(日)・11月23日(月)）</li><li><a href="/event/1b02jh6/">こどもの国 自然スタンプビンゴ＜紅葉バージョン＞</a>（11月21日(土)・11月22日(日)・11月23日(月)）</li><li><a href="/event/oo305l/">こどもの国 工作教室「ヒツジをつくろう」</a>（11月22日(日)・11月23日(月)）</li><li><a href="/event/1qw0osb/">こどもの国 エコスポ！フェス2026</a>（11月15日(日)）</li><li><a href="/event/h1le89/">こどもの国 紙飛行機を飛ばそう</a>（11月15日(日)（雨で中止）・12月20日(日)）</li></ul>
 
 <footer><p>KidsTrip（キッズトリップ）横浜の子連れおでかけ・イベント一覧。施設・主催者の公式情報などをもとに要約しています。内容は変わることがあるので、出かける前に必ず公式ページで確認してください。</p>
 <p>サイトをよくするため、押されたボタン・リンクの回数を、名前などの個人情報なしで記録しています。</p></footer>

diff --git a/event/1g2neg3/index.html b/event/1g2neg3/index.html
@@ -65,7 +65,7 @@ footer{margin:28px 0 8px;font-size:12px;color:var(--muted)}
 <a class="btn line" href="https://line.me/R/share?text=%E3%80%90%E3%81%93%E3%81%A9%E3%82%82%E3%81%AE%E5%9B%BD%E7%89%A7%E5%A0%B4%20%E4%B9%B3%E3%81%97%E3%81%BC%E3%82%8A%E4%BD%93%E9%A8%93%E3%80%91%0A%E4%BC%9A%E6%9C%9F%20%E6%AF%8E%E9%80%B1%E5%9C%9F%E6%97%A5%E7%A5%9D%E3%80%8011%3A00%EF%BC%8F14%3A00%0A%E5%A0%B4%E6%89%80%EF%BC%9A%E9%9D%92%E8%91%89%E5%8C%BA%E3%83%BB%E3%81%93%E3%81%A9%E3%82%82%E3%81%AE%E5%9B%BD%20%E7%89%A7%E5%A0%B4%E7%89%9B%E8%88%8E%E5%89%8D%0Ahttps%3A//kidstrip.jp/event/1g2neg3/" target="_blank" rel="noopener">LINEで送る</a></div>
 </article>
 <h2>近くのおむつ替え・授乳室・お湯（こどもの国）</h2><table class="bm"><thead><tr><th>場所</th><th>おむつ替え</th><th>授乳室</th><th>お湯</th></tr></thead><tbody><tr><th scope="row"><a href="/spot/h4ssx4/">こどもの国</a></th><td class="y">○</td><td class="y">○</td><td class="y">○</td></tr></tbody></table><p class="legend">○ あり　× なし　？ 調べた範囲で確認できず</p>
-<h2>近くのほかのイベント</h2><ul class="links"><li><a href="/event/1n3gczd/">こどもの国 あそび広場</a>（11月21日(土)）</li><li><a href="/event/8myawv/">こどもの国牧場 バター作り教室</a>（会期 毎週日曜）</li><li><a href="/event/awe5vd/">こどもの国 冬のブラスフェス</a>（11月21日(土)）</li><li><a href="/event/12b01jt/">こどもの国 もみじのかざぐるま</a>（11月21日(土)・11月22日(日)・11月23日(月)）</li><li><a href="/event/1b02jh6/">こどもの国 自然スタンプビンゴ＜紅葉バージョン＞</a>（11月21日(土)・11月22日(日)・11月23日(月)）</li><li><a href="/event/oo305l/">こどもの国 工作教室「ヒツジをつくろう」</a>（11月22日(日)・11月23日(月)）</li><li><a href="/event/1qw0osb/">こどもの国 エコスポ！フェス2026</a>（11月15日(日)）</li><li><a href="/event/h1le89/">こどもの国 紙飛行機を飛ばそう</a>（12月20日(日)）</li></ul>
+<h2>近くのほかのイベント</h2><ul class="links"><li><a href="/event/1n3gczd/">こどもの国 あそび広場</a>（11月21日(土)）</li><li><a href="/event/8myawv/">こどもの国牧場 バター作り教室</a>（会期 毎週日曜）</li><li><a href="/event/awe5vd/">こどもの国 冬のブラスフェス</a>（11月21日(土)）</li><li><a href="/event/12b01jt/">こどもの国 もみじのかざぐるま</a>（11月21日(土)・11月22日(日)・11月23日(月)）</li><li><a href="/event/1b02jh6/">こどもの国 自然スタンプビンゴ＜紅葉バージョン＞</a>（11月21日(土)・11月22日(日)・11月23日(月)）</li><li><a href="/event/oo305l/">こどもの国 工作教室「ヒツジをつくろう」</a>（11月22日(日)・11月23日(月)）</li><li><a href="/event/1qw0osb/">こどもの国 エコスポ！フェス2026</a>（11月15日(日)）</li><li><a href="/event/h1le89/">こどもの国 紙飛行機を飛ばそう</a>（11月15日(日)（雨で中止）・12月20日(日)）</li></ul>
 
 <footer><p>KidsTrip（キッズトリップ）横浜の子連れおでかけ・イベント一覧。施設・主催者の公式情報などをもとに要約しています。内容は変わることがあるので、出かける前に必ず公式ページで確認してください。</p>
 <p>サイトをよくするため、押されたボタン・リンクの回数を、名前などの個人情報なしで記録しています。</p></footer>

diff --git a/event/1qw0osb/index.html b/event/1qw0osb/index.html
@@ -65,7 +65,7 @@ footer{margin:28px 0 8px;font-size:12px;color:var(--muted)}
 <a class="btn line" href="https://line.me/R/share?text=%E3%80%90%E3%81%93%E3%81%A9%E3%82%82%E3%81%AE%E5%9B%BD%20%E3%82%A8%E3%82%B3%E3%82%B9%E3%83%9D%EF%BC%81%E3%83%95%E3%82%A7%E3%82%B92026%E3%80%91%0A11%E6%9C%8815%E6%97%A5%28%E6%97%A5%29%E3%80%809%3A30%E3%80%9C16%3A00%0A%E5%A0%B4%E6%89%80%EF%BC%9A%E9%9D%92%E8%91%89%E5%8C%BA%E3%83%BB%E3%81%93%E3%81%A9%E3%82%82%E3%81%AE%E5%9B%BD%20%E4%B8%AD%E5%A4%AE%E5%BA%83%E5%A0%B4%E5%91%A8%E8%BE%BA%0Ahttps%3A//kidstrip.jp/event/1qw0osb/" target="_blank" rel="noopener">LINEで送る</a></div>
 </article>
 <h2>近くのおむつ替え・授乳室・お湯（こどもの国）</h2><table class="bm"><thead><tr><th>場所</th><th>おむつ替え</th><th>授乳室</th><th>お湯</th></tr></thead><tbody><tr><th scope="row"><a href="/spot/h4ssx4/">こどもの国</a></th><td class="y">○</td><td class="y">○</td><td class="y">○</td></tr></tbody></table><p class="legend">○ あり　× なし　？ 調べた範囲で確認できず</p>
-<h2>近くのほかのイベント</h2><ul class="links"><li><a href="/event/1n3gczd/">こどもの国 あそび広場</a>（11月21日(土)）</li><li><a href="/event/1g2neg3/">こどもの国牧場 乳しぼり体験</a>（会期 毎週土日祝）</li><li><a href="/event/8myawv/">こどもの国牧場 バター作り教室</a>（会期 毎週日曜）</li><li><a href="/event/awe5vd/">こどもの国 冬のブラスフェス</a>（11月21日(土)）</li><li><a href="/event/12b01jt/">こどもの国 もみじのかざぐるま</a>（11月21日(土)・11月22日(日)・11月23日(月)）</li><li><a href="/event/1b02jh6/">こどもの国 自然スタンプビンゴ＜紅葉バージョン＞</a>（11月21日(土)・11月22日(日)・11月23日(月)）</li><li><a href="/event/oo305l/">こどもの国 工作教室「ヒツジをつくろう」</a>（11月22日(日)・11月23日(月)）</li><li><a href="/event/h1le89/">こどもの国 紙飛行機を飛ばそう</a>（12月20日(日)）</li></ul>
+<h2>近くのほかのイベント</h2><ul class="links"><li><a href="/event/1n3gczd/">こどもの国 あそび広場</a>（11月21日(土)）</li><li><a href="/event/1g2neg3/">こどもの国牧場 乳しぼり体験</a>（会期 毎週土日祝）</li><li><a href="/event/8myawv/">こどもの国牧場 バター作り教室</a>（会期 毎週日曜）</li><li><a href="/event/awe5vd/">こどもの国 冬のブラスフェス</a>（11月21日(土)）</li><li><a href="/event/12b01jt/">こどもの国 もみじのかざぐるま</a>（11月21日(土)・11月22日(日)・11月23日(月)）</li><li><a href="/event/1b02jh6/">こどもの国 自然スタンプビンゴ＜紅葉バージョン＞</a>（11月21日(土)・11月22日(日)・11月23日(月)）</li><li><a href="/event/oo305l/">こどもの国 工作教室「ヒツジをつくろう」</a>（11月22日(日)・11月23日(月)）</li><li><a href="/event/h1le89/">こどもの国 紙飛行機を飛ばそう</a>（11月15日(日)（雨で中止）・12月20日(日)）</li></ul>
 
 <footer><p>KidsTrip（キッズトリップ）横浜の子連れおでかけ・イベント一覧。施設・主催者の公式情報などをもとに要約しています。内容は変わることがあるので、出かける前に必ず公式ページで確認してください。</p>
 <p>サイトをよくするため、押されたボタン・リンクの回数を、名前などの個人情報なしで記録しています。</p></footer>

diff --git a/spot/h4ssx4/index.html b/spot/h4ssx4/index.html
@@ -56,7 +56,7 @@ footer{margin:28px 0 8px;font-size:12px;color:var(--muted)}
 <button type="button" class="btn" data-share="1">🔗 リンクを送る・コピー</button></div>
 </article>
 
-<h2>このあたりのイベント</h2><ul class="links"><li><a href="/event/1n3gczd/">こどもの国 あそび広場</a>（11月21日(土)）</li><li><a href="/event/1g2neg3/">こどもの国牧場 乳しぼり体験</a>（会期 毎週土日祝）</li><li><a href="/event/8myawv/">こどもの国牧場 バター作り教室</a>（会期 毎週日曜）</li><li><a href="/event/awe5vd/">こどもの国 冬のブラスフェス</a>（11月21日(土)）</li><li><a href="/event/12b01jt/">こどもの国 もみじのかざぐるま</a>（11月21日(土)・11月22日(日)・11月23日(月)）</li><li><a href="/event/1b02jh6/">こどもの国 自然スタンプビンゴ＜紅葉バージョン＞</a>（11月21日(土)・11月22日(日)・11月23日(月)）</li><li><a href="/event/oo305l/">こどもの国 工作教室「ヒツジをつくろう」</a>（11月22日(日)・11月23日(月)）</li><li><a href="/event/1qw0osb/">こどもの国 エコスポ！フェス2026</a>（11月15日(日)）</li><li><a href="/event/h1le89/">こどもの国 紙飛行機を飛ばそう</a>（12月20日(日)）</li></ul>
+<h2>このあたりのイベント</h2><ul class="links"><li><a href="/event/1n3gczd/">こどもの国 あそび広場</a>（11月21日(土)）</li><li><a href="/event/1g2neg3/">こどもの国牧場 乳しぼり体験</a>（会期 毎週土日祝）</li><li><a href="/event/8myawv/">こどもの国牧場 バター作り教室</a>（会期 毎週日曜）</li><li><a href="/event/awe5vd/">こどもの国 冬のブラスフェス</a>（11月21日(土)）</li><li><a href="/event/12b01jt/">こどもの国 もみじのかざぐるま</a>（11月21日(土)・11月22日(日)・11月23日(月)）</li><li><a href="/event/1b02jh6/">こどもの国 自然スタンプビンゴ＜紅葉バージョン＞</a>（11月21日(土)・11月22日(日)・11月23日(月)）</li><li><a href="/event/oo305l/">こどもの国 工作教室「ヒツジをつくろう」</a>（11月22日(日)・11月23日(月)）</li><li><a href="/event/1qw0osb/">こどもの国 エコスポ！フェス2026</a>（11月15日(日)）</li><li><a href="/event/h1le89/">こどもの国 紙飛行機を飛ばそう</a>（11月15日(日)（雨で中止）・12月20日(日)）</li></ul>
 
 <footer><p>KidsTrip（キッズトリップ）横浜の子連れおでかけ・イベント一覧。施設・主催者の公式情報などをもとに要約しています。内容は変わることがあるので、出かける前に必ず公式ページで確認してください。</p>
 <p>サイトをよくするため、押されたボタン・リンクの回数を、名前などの個人情報なしで記録しています。</p></footer>
